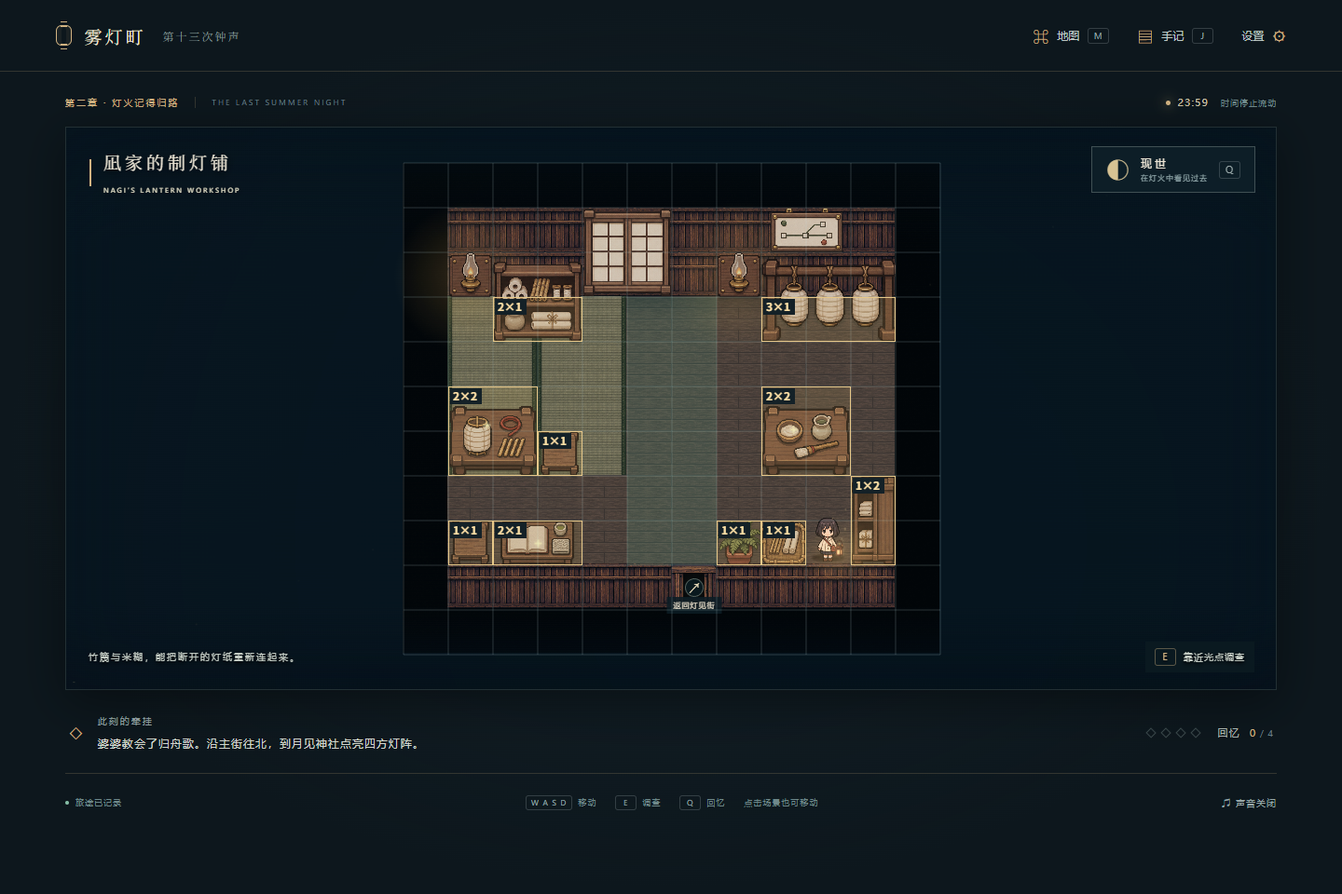
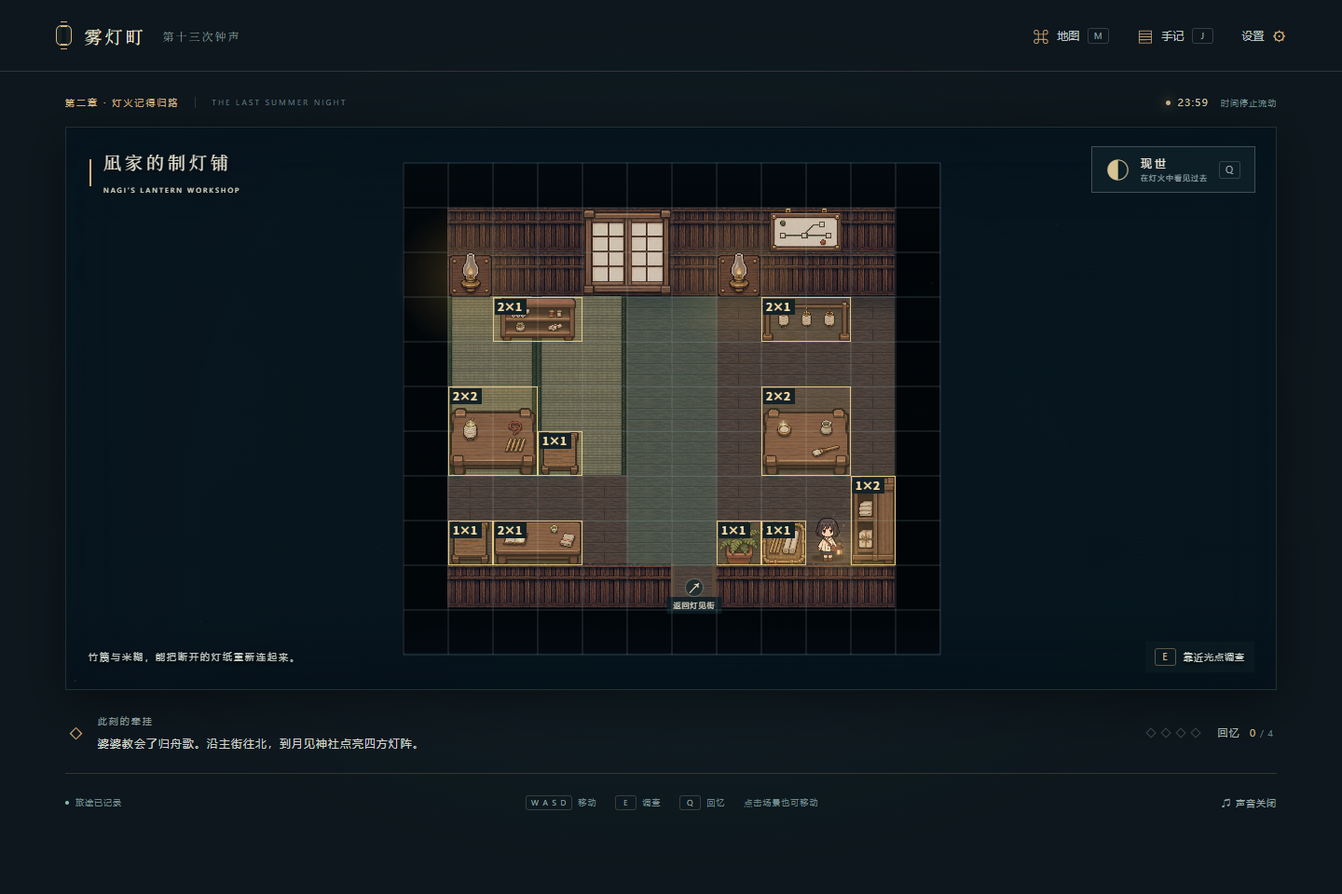
Balance furniture proportions and add mobile lantern controls

diff --git a/game.js b/game.js
@@ -15,6 +15,25 @@
   const keys = new Set();
   const settings = Object.assign({ sound: false, instantText: false, particles: true }, read(KEYS.settings) || {});
   const motionPreference=window.matchMedia('(prefers-reduced-motion: reduce)');
+  const touchLayout=window.matchMedia('(max-width: 700px), (pointer: coarse)');
+  function controlText(text){
+    if(!touchLayout.matches)return text;
+    return text.replace(/按 Q[ \t]*/g,'轻触「引灯」').replace(/按 M[ \t]*/g,'轻触顶部「地图」')
+      .replace('使用 WASD 或方向键移动，靠近光点后按 E 调查。','使用屏幕方向键移动，靠近光点后轻触「调查」。')
+      .replace('任意时刻也可按 E 显示全文','也可轻触对话中的「显示全文」');
+  }
+  function syncPhaseControls(){
+    if(!state)return;
+    const echo=state.phase==='echo',lit=!!state.flags.lantern;
+    for(const id of ['phase-button','touch-phase']){$(id).disabled=!lit;$(id).setAttribute('aria-pressed',String(echo));}
+    $('phase-name').textContent=echo?'回忆':'现世';
+    $('phase-sub').textContent=lit?(touchLayout.matches?(echo?'轻触返回现世':'轻触照见回忆'):(echo?'旧日之事正在浮现':'在灯火中看见过去')):state.flags.lampFound?'引灯未点亮':'先寻找引灯';
+    $('phase-button').title=touchLayout.matches?'轻触切换现世 / 回忆':'切换现世 / 回忆（Q）';
+    $('touch-phase-label').textContent=lit?(echo?'返回现世':'照见回忆'):'未点亮';
+    $('touch-phase').setAttribute('aria-label',lit?(echo?'收起引灯，返回现世':'使用引灯，照见回忆'):'引灯尚未点亮');
+    $('world').setAttribute('aria-label',touchLayout.matches?'游戏场景。使用屏幕方向键移动，轻触调查；点亮后轻触引灯切换回忆，也可以轻触场景。':'游戏场景。使用方向键或 WASD 移动，E 调查，Q 切换回忆，也可以点击场景。');
+  }
+  touchLayout.addEventListener('change',()=>{syncPhaseControls();if(state&&screen==='play'){renderHUD();updateNearest();}});
   let reducedMotion=motionPreference.matches;
   motionPreference.addEventListener('change',event=>{reducedMotion=event.matches;});
   if (reducedMotion) settings.instantText = true;
@@ -41,7 +60,7 @@
   function toast(message) {
     clearTimeout(toastTimer);
     $('toast-region').replaceChildren();
-    const el = document.createElement('div'); el.className = 'toast'; el.textContent = message;
+    const el = document.createElement('div'); el.className = 'toast'; el.textContent = controlText(message);
     $('toast-region').appendChild(el);
     toastTimer = setTimeout(() => $('toast-region').replaceChildren(), 3900);
   }
@@ -81,9 +100,7 @@
     $('world').classList.toggle('echo', echo);
     $('world-background').style.backgroundPosition = `${zone.atlas[0] * 100}% ${zone.atlas[1] * 50}%`;
     $('zone-name').textContent = zone.name; $('zone-reading').textContent = zone.reading; $('zone-sub').textContent = zone.sub;
-    $('phase-button').disabled = !state.flags.lantern; $('phase-name').textContent = echo ? '回忆' : '现世';
-    $('phase-sub').textContent = state.flags.lantern ? (echo ? '旧日之事正在浮现' : '在灯火中看见过去') : state.flags.lampFound?'引灯未点亮':'先寻找引灯';
-    $('phase-button').setAttribute('aria-pressed', String(echo));
+    syncPhaseControls();
     $('player').classList.toggle('lit', !!state.flags.lantern);
     const container = $('objects'); container.replaceChildren();
     visibleObjects().forEach(obj => {
@@ -129,7 +146,7 @@
     if (target) showClickTarget(target);
   }
   function renderHUD() {
-    const objective = C.objective(state); $('chapter-label').textContent = objective[0]; $('objective-text').textContent = objective[1];
+    const objective = C.objective(state); $('chapter-label').textContent = objective[0]; $('objective-text').textContent = controlText(objective[1]);
     $('memory-count').textContent = state.memories.length;
     $('memory-dots').innerHTML = C.MEMORIES.map(id => `<i class="${state.memories.includes(id) ? 'filled' : ''}"></i>`).join('');
     document.querySelector('.clock-label').innerHTML = state.solved.includes('tower') ? '<i></i> 00:00 <small>等待最后一声钟响</small>' : '<i></i> 23:59 <small>时间停止流动</small>';
@@ -140,7 +157,8 @@
     const distance = obj => Math.abs(obj.x - state.player.x) + Math.abs(obj.y - state.player.y);
     nearest = objects.filter(obj => distance(obj) <= 1).sort((a, b) => distance(a) - distance(b))[0] || null;
     objects.forEach(obj => $(`object-${obj.id}`)?.classList.toggle('near', obj === nearest));
-    $('nearby-hint').innerHTML = nearest ? `<kbd>E</kbd> ${nearest.character !== undefined ? '交谈 · ' : ''}${nearest.name}` : '<kbd>E</kbd> 靠近光点调查';
+    const key=touchLayout.matches?'调查':'E';
+    $('nearby-hint').innerHTML = nearest ? `<kbd>${key}</kbd> ${nearest.character !== undefined ? '交谈 · ' : ''}${nearest.name}` : `<kbd>${key}</kbd> 靠近光点调查`;
   }
   function approach(obj) {
     if (screen !== 'play' || modalKind || !$('dialogue').hidden || transitioning) return;
@@ -245,7 +263,7 @@
     $('speaker-name').textContent = who?.name || '雾中的旧事'; $('speaker-detail').textContent = line.detail || (who ? '灯见祭 · 前夜' : '');
     const portrait = $('dialogue-portrait'); portrait.classList.toggle('narrator', !who);
     if (who) portrait.style.backgroundPosition = `${(who.portrait % 2) * 100}% ${Math.floor(who.portrait / 2) * 100}%`;
-    currentText = line.text || '你想怎么回答？';
+    currentText = controlText(line.text || '你想怎么回答？');
     $('dialogue-text').textContent = '';
     if (settings.instantText) finishTyping();
     else {
@@ -288,7 +306,7 @@
     keys.clear(); clearTarget(); if (state) updatePlayer(false);
     if (!modalKind) modalReturnFocus = document.activeElement;
     modalKind = kind; $('modal-title').textContent = title; $('modal-eyebrow').textContent = eyebrow;
-    $('modal-card').classList.toggle('wide', wide); $('modal-body').innerHTML = html; $('modal').hidden = false;
+    $('modal-card').classList.toggle('wide', wide); $('modal-body').innerHTML = controlText(html); $('modal').hidden = false;
     $('modal-close').focus({ preventScroll: true });
   }
   function closeModal(restoreFocus = true) {
@@ -322,7 +340,7 @@
       html = `<div class="gears">${p.values.map((v, i) => `<button class="gear-button" data-gear="${i}" aria-label="转动${['上', '中', '下'][i]}轮，目前${v === 0 ? 12 : v * 3}点"><span class="gear-clock"><small class="clock-twelve">12</small><i class="gear-hand" style="transform:rotate(${v * 90}deg)"></i></span><span>${['上', '中', '下'][i]}轮 · ${v === 0 ? 12 : v * 3} 点</span><small>同时带动${['中', '下', '上'][i]}轮 ↻</small></button>`).join('')}</div>`;
     }
     const clueKey = { station: 'date', shrine: 'lanternOrder', archive: 'chronology', tower: 'clockMarks' }[id];
-    const clueHtml = state.clues.includes(clueKey) ? D.clues[clueKey].text : '线索尚未记下。暂时离开机关，按 Q 查看回忆，调查附近的文字。你的旅程不会因此中断。';
+    const clueHtml = state.clues.includes(clueKey) ? D.clues[clueKey].text : controlText('线索尚未记下。暂时离开机关，按 Q 查看回忆，调查附近的文字。你的旅程不会因此中断。');
     $('modal-body').innerHTML = `<p class="puzzle-caption">${caption}</p>${html}<p id="puzzle-status" class="puzzle-status" role="status">${p.status || '机关静静地等待着。'}</p><div class="puzzle-clue"><span class="clue-label">手记中的线索</span>${clueHtml}</div>${p.hints ? `<div class="hint-box">${D.hints[id][p.hints - 1]}</div>` : ''}<div class="modal-actions"><div><button id="puzzle-reset" class="subtle-button">重置</button><span style="color:#557173;margin:0 12px">/</span><button id="puzzle-hint" class="subtle-button">${p.hints === 3 ? '已显示完整提示' : '一点提示 ' + (p.hints + 1) + ' / 3'}</button></div><button id="puzzle-check" class="button primary">${id === 'tower' ? '启动钟芯' : '确认'} ⟶</button></div>`;
     $('puzzle-reset').onclick = () => { p.values = id === 'station' ? [0, 0, 0, 0] : id === 'archive' ? ['gate', 'bell', 'letter', 'lantern'] : id === 'tower' ? [0, 0, 0] : []; p.status = '机关已回到最初。'; p.selected = null; renderPuzzle('#puzzle-reset'); };
     $('puzzle-hint').onclick = () => { p.hints = Math.min(3, p.hints + 1); renderPuzzle('#puzzle-hint'); };
@@ -387,7 +405,7 @@
   }
   function openSettings() {
     const hasManual = !!getSave(KEYS.manual);
-    const html = `<div class="body-copy"><p>这是一段可以慢慢走完的旅程。所有谜题都提供三层提示，试错不会失去物品。</p></div><div class="setting-row"><div><b>环境音乐</b><small>原创合成钟声与缓慢的钢琴音色。</small></div><button id="setting-sound">${S.enabled ? '已开启' : '已关闭'}</button></div><div class="setting-row"><div><b>对话直接显示</b><small>关闭逐字浮现；任意时刻也可按 E 显示全文。</small></div><button id="setting-text">${settings.instantText ? '已开启' : '已关闭'}</button></div><div class="setting-row"><div><b>漂浮光点</b><small>减少场景中的环境动画。</small></div><button id="setting-particles">${settings.particles ? '已开启' : '已关闭'}</button></div><div class="help-grid"><div><kbd>WASD / ↑↓←→</kbd> 移动</div><div><kbd>E / Enter</kbd> 调查、继续</div><div><kbd>Q</kbd> 现世 / 回忆</div><div><kbd>J</kbd> 澪的手记</div><div><kbd>M</kbd> 旧地图</div><div><kbd>Esc</kbd> 关闭窗口</div></div><div class="body-copy"><p>点击地面可移动，点击人物或光点会自动走近并调查。手机可使用屏幕方向键。回忆中闪动的细小光点能找回故事片段。</p><p>进度会自动保存在当前浏览器。请用同一个地址和浏览器继续；清理网站数据会删除存档。</p></div>${state && screen === 'play' ? `<div class="modal-actions"><button class="subtle-button" id="load-manual" ${hasManual ? '' : 'disabled'}>读取手动存档</button><button id="save-manual" class="button primary">手动存档 ⟶</button></div>` : ''}`;
+    const html = `<div class="body-copy"><p>这是一段可以慢慢走完的旅程。所有谜题都提供三层提示，试错不会失去物品。</p></div><div class="setting-row"><div><b>环境音乐</b><small>原创合成钟声与缓慢的钢琴音色。</small></div><button id="setting-sound">${S.enabled ? '已开启' : '已关闭'}</button></div><div class="setting-row"><div><b>对话直接显示</b><small>关闭逐字浮现；任意时刻也可按 E 显示全文。</small></div><button id="setting-text">${settings.instantText ? '已开启' : '已关闭'}</button></div><div class="setting-row"><div><b>漂浮光点</b><small>减少场景中的环境动画。</small></div><button id="setting-particles">${settings.particles ? '已开启' : '已关闭'}</button></div>${touchLayout.matches ? '<div class="help-grid"><div><kbd>方向按钮</kbd> 移动</div><div><kbd>调查</kbd> 靠近后交互</div><div><kbd>引灯</kbd> 现世 / 回忆</div><div><kbd>手记</kbd> 查看线索</div><div><kbd>地图</kbd> 前往旧地</div><div><kbd>×</kbd> 关闭窗口</div></div>' : '<div class="help-grid"><div><kbd>WASD / ↑↓←→</kbd> 移动</div><div><kbd>E / Enter</kbd> 调查、继续</div><div><kbd>Q</kbd> 现世 / 回忆</div><div><kbd>J</kbd> 澪的手记</div><div><kbd>M</kbd> 旧地图</div><div><kbd>Esc</kbd> 关闭窗口</div></div>'}<div class="body-copy"><p>点击地面可移动，点击人物或光点会自动走近并调查。手机可使用屏幕方向键。回忆中闪动的细小光点能找回故事片段。</p><p>进度会自动保存在当前浏览器。请用同一个地址和浏览器继续；清理网站数据会删除存档。</p></div>${state && screen === 'play' ? `<div class="modal-actions"><button class="subtle-button" id="load-manual" ${hasManual ? '' : 'disabled'}>读取手动存档</button><button id="save-manual" class="button primary">手动存档 ⟶</button></div>` : ''}`;
     openModal('旅途设置', 'MAKE YOURSELF AT HOME', 'settings', html);
     $('setting-sound').onclick = async () => { await toggleSound(); if (modalKind === 'settings') $('setting-sound').textContent = S.enabled ? '已开启' : '已关闭'; };
     $('setting-text').onclick = () => { settings.instantText = !settings.instantText; write(KEYS.settings, settings); $('setting-text').textContent = settings.instantText ? '已开启' : '已关闭'; };
@@ -458,6 +476,7 @@
   $('modal-close').onclick = () => closeModal(); $('modal').onclick = e => { if (e.target === $('modal')) closeModal(); };
   $('ending-rewind').onclick = rewind; $('ending-home').onclick = goHome;
   $('touch-interact').onclick = () => { updateNearest(); interact(nearest); };
+  $('touch-phase').onclick = togglePhase;
   $('world').addEventListener('pointerdown', e => {
     if (e.target.closest('button') || modalKind || !$('dialogue').hidden || transitioning) return;
     const rect = $('world').getBoundingClientRect();

diff --git a/interior-art.js b/interior-art.js
@@ -1,2 +1,2 @@
 /* Generated by scripts/import-interior-art.cjs. Rectangles include transparent padding. */
-(function(root,factory){if(typeof module==='object'&&module.exports)module.exports=factory();else root.KiriInteriorArt=factory();})(globalThis,()=>({"version":1,"sizes":[32,48],"cell":3,"columns":6,"sprites":{"lampCabinet":[{"col":0,"row":0,"w":2,"h":2},{"col":1,"row":0,"w":2,"h":2}],"dutyDesk":[{"col":2,"row":0,"w":2,"h":1}],"parcelShelf":[{"col":3,"row":0,"w":2,"h":1},{"col":4,"row":0,"w":2,"h":1}],"maintenanceBench":[{"col":5,"row":0,"w":2,"h":1}],"serviceCounter":[{"col":0,"row":1,"w":3,"h":1}],"waitingBench":[{"col":1,"row":1,"w":3,"h":1}],"sideBench":[{"col":2,"row":1,"w":1,"h":3}],"ticketCubby":[{"col":3,"row":1,"w":1,"h":2}],"luggage":[{"col":4,"row":1,"w":1,"h":1}],"wallClock":[{"col":5,"row":1,"w":1,"h":1}],"wallLamp":[{"col":0,"row":2,"w":1,"h":1}],"repairTable":[{"col":1,"row":2,"w":2,"h":2},{"col":2,"row":2,"w":2,"h":2}],"pasteTable":[{"col":3,"row":2,"w":2,"h":2}],"notesTable":[{"col":4,"row":2,"w":2,"h":1}],"paperShelf":[{"col":5,"row":2,"w":2,"h":2}],"dryingRack":[{"col":0,"row":3,"w":3,"h":2}],"stool":[{"col":1,"row":3,"w":1,"h":1}],"stockBasket":[{"col":2,"row":3,"w":1,"h":1}],"sideShelf":[{"col":3,"row":3,"w":1,"h":2}],"wardrobe":[{"col":4,"row":3,"w":2,"h":2}],"lowCupboard":[{"col":5,"row":3,"w":2,"h":1}],"screen":[{"col":0,"row":4,"w":2,"h":2}],"sideScreen":[{"col":1,"row":4,"w":1,"h":2}],"fern":[{"col":2,"row":4,"w":1,"h":1}],"camellia":[{"col":3,"row":4,"w":1,"h":1}],"routeBoard":[{"col":4,"row":4,"w":2,"h":1}],"landscape":[{"col":5,"row":4,"w":1,"h":1}],"shojiWindow":[{"col":0,"row":5,"w":2,"h":2}],"narrowWindow":[{"col":1,"row":5,"w":1,"h":2}],"umbrellaStand":[{"col":2,"row":5,"w":1,"h":2}],"coatRack":[{"col":3,"row":5,"w":2,"h":1}]},"rows":6}));
+(function(root,factory){if(typeof module==='object'&&module.exports)module.exports=factory();else root.KiriInteriorArt=factory();})(globalThis,()=>({"version":1,"sizes":[32,48],"cell":3,"columns":6,"sprites":{"lampCabinet":[{"col":0,"row":0,"w":2,"h":2},{"col":1,"row":0,"w":2,"h":2}],"dutyDesk":[{"col":2,"row":0,"w":2,"h":1}],"parcelShelf":[{"col":3,"row":0,"w":2,"h":1},{"col":4,"row":0,"w":2,"h":1}],"maintenanceBench":[{"col":5,"row":0,"w":2,"h":1}],"serviceCounter":[{"col":0,"row":1,"w":3,"h":1}],"waitingBench":[{"col":1,"row":1,"w":3,"h":1}],"sideBench":[{"col":2,"row":1,"w":1,"h":3}],"ticketCubby":[{"col":3,"row":1,"w":1,"h":2}],"luggage":[{"col":4,"row":1,"w":1,"h":1}],"wallClock":[{"col":5,"row":1,"w":1,"h":1}],"wallLamp":[{"col":0,"row":2,"w":1,"h":1}],"repairTable":[{"col":1,"row":2,"w":2,"h":2},{"col":2,"row":2,"w":2,"h":2}],"pasteTable":[{"col":3,"row":2,"w":2,"h":2}],"notesTable":[{"col":4,"row":2,"w":2,"h":1}],"paperShelf":[{"col":5,"row":2,"w":2,"h":1}],"dryingRack":[{"col":0,"row":3,"w":2,"h":1}],"stool":[{"col":1,"row":3,"w":1,"h":1}],"stockBasket":[{"col":2,"row":3,"w":1,"h":1}],"sideShelf":[{"col":3,"row":3,"w":1,"h":2}],"wardrobe":[{"col":4,"row":3,"w":2,"h":2}],"lowCupboard":[{"col":5,"row":3,"w":2,"h":1}],"screen":[{"col":0,"row":4,"w":2,"h":2}],"sideScreen":[{"col":1,"row":4,"w":1,"h":2}],"fern":[{"col":2,"row":4,"w":1,"h":1}],"camellia":[{"col":3,"row":4,"w":1,"h":1}],"routeBoard":[{"col":4,"row":4,"w":2,"h":1}],"landscape":[{"col":5,"row":4,"w":1,"h":1}],"shojiWindow":[{"col":0,"row":5,"w":2,"h":2}],"narrowWindow":[{"col":1,"row":5,"w":1,"h":2}],"umbrellaStand":[{"col":2,"row":5,"w":1,"h":2}],"coatRack":[{"col":3,"row":5,"w":2,"h":1}]},"rows":6}));

diff --git a/furniture.js b/furniture.js
@@ -3,21 +3,21 @@
   'use strict';
   const catalog={
     lampCabinet:{atlas:'gridInterior',sprite:0,w:2,d:1,h:2,completedFlag:'lampFound',completedSprite:1,focus:[.72,.22]},
-    dutyDesk:{atlas:'prefab',sprite:2,w:2,d:1,h:1,focus:[.5,.3]},
-    parcelShelf:{atlas:'prefab',sprite:9,w:2,d:1,h:1,completedFlag:'parcelTaken',completedSprite:10,focus:[.5,.4]},
-    maintenanceBench:{atlas:'prefab',sprite:4,w:2,d:1,h:1,focus:[.5,.35]},
-    serviceCounter:{atlas:'prefab',sprite:3,w:3,d:1,h:1},
+    dutyDesk:{atlas:'balanced',sprite:4,w:2,d:1,h:1,focus:[.3,.35]},
+    parcelShelf:{atlas:'balancedCounter',sprite:1,w:2,d:1,h:1,completedFlag:'parcelTaken',completedSprite:2,focus:[.5,.4]},
+    maintenanceBench:{atlas:'balanced',sprite:5,w:2,d:1,h:1,focus:[.24,.4]},
+    serviceCounter:{atlas:'balancedCounter',sprite:0,w:3,d:1,h:1},
     waitingBench:{atlas:'prefab',sprite:0,w:3,d:1,h:1},
     sideBench:{atlas:'prefab',sprite:1,w:1,d:3,h:3,facing:'west'},
     ticketCubby:{atlas:'gridInterior',sprite:2,w:1,d:1,h:2},
     luggage:{atlas:'gridInterior',sprite:3,w:1,d:1,h:1},
     wallClock:{atlas:'gridInterior',sprite:4,w:1,d:0,h:1,mount:'back-wall'},
     wallLamp:{atlas:'gridInterior',sprite:5,w:1,d:0,h:1,mount:'back-wall'},
-    repairTable:{atlas:'worktable',sprite:0,w:2,d:2,h:2,completedFlag:'helpedNagi',completedSprite:1,focus:[.43,.43]},
-    pasteTable:{atlas:'worktable',sprite:2,w:2,d:2,h:2,focus:[.35,.48]},
-    notesTable:{atlas:'prefab',sprite:8,w:2,d:1,h:1,focus:[.5,.5]},
-    paperShelf:{atlas:'gridInterior',sprite:6,w:2,d:1,h:2},
-    dryingRack:{atlas:'gridInterior',sprite:7,w:3,d:1,h:2},
+    repairTable:{atlas:'balanced',sprite:0,w:2,d:2,h:2,completedFlag:'helpedNagi',completedSprite:1,focus:[.25,.42]},
+    pasteTable:{atlas:'balanced',sprite:2,w:2,d:2,h:2,focus:[.24,.42]},
+    notesTable:{atlas:'balanced',sprite:3,w:2,d:1,h:1,focus:[.3,.4]},
+    paperShelf:{atlas:'balanced',sprite:7,w:2,d:1,h:1},
+    dryingRack:{atlas:'balanced',sprite:6,w:2,d:1,h:1},
     stool:{atlas:'prefab',sprite:11,w:1,d:1,h:1},
     stockBasket:{atlas:'gridInterior',sprite:8,w:1,d:1,h:1},
     sideShelf:{atlas:'gridInterior',sprite:9,w:1,d:2,h:2,facing:'west'},

diff --git a/index.html b/index.html
@@ -57,7 +57,7 @@
       <div class="journey-bar"><div class="objective"><span class="objective-symbol" aria-hidden="true">◇</span><div><span class="micro-label">此刻的牵挂</span><p id="objective-text"></p></div></div><button id="memory-button" class="memory-counter" aria-label="查看回忆手记"><span class="memory-dots" id="memory-dots"></span><span>回忆 <b id="memory-count">0</b><small> / 4</small></span></button></div>
       <footer class="game-footer"><span id="save-status"><i></i> 旅途已记录</span><div class="keyboard-help"><span><kbd>W A S D</kbd> 移动</span><span><kbd>E</kbd> 调查</span><span><kbd>Q</kbd> 回忆</span><span>点击场景也可移动</span></div><button id="sound-button" class="text-button" aria-label="开启环境音乐" aria-pressed="false">♫ <span>声音关闭</span></button></footer>
     </div>
-    <div class="touch-controls" id="touch-controls"><div class="dpad" aria-label="方向控制"><button data-move="up" aria-label="向上移动">↑</button><button data-move="left" aria-label="向左移动">←</button><button data-move="down" aria-label="向下移动">↓</button><button data-move="right" aria-label="向右移动">→</button></div><button id="touch-interact" class="touch-interact">调查 <span>E</span></button></div>
+    <div class="touch-controls" id="touch-controls"><div class="dpad" aria-label="方向控制"><button data-move="up" aria-label="向上移动">↑</button><button data-move="left" aria-label="向左移动">←</button><button data-move="down" aria-label="向下移动">↓</button><button data-move="right" aria-label="向右移动">→</button></div><div class="touch-actions"><button id="touch-phase" class="touch-interact touch-phase" aria-label="引灯尚未点亮" aria-pressed="false" disabled>引灯 <span id="touch-phase-label">未点亮</span></button><button id="touch-interact" class="touch-interact">调查 <span>靠近光点</span></button></div></div>
   </main>
 
   <section id="dialogue" class="dialogue" role="dialog" aria-modal="true" aria-label="剧情对话" hidden>

diff --git a/world.js b/world.js
@@ -67,7 +67,10 @@
     }
     timberCache.set(size,unit);return unit;
   }
-  function groundMaterial(map,index){return ['station-office','town-workshop'].includes(map.id)&&map.materials[index]==='wood'?'timber':map.materials[index];}
+  function groundMaterial(map,index){
+    if(['station-office','town-workshop'].includes(map.id)){if(map.tiles[index]===31)return 'interior-exit';if(map.materials[index]==='wood')return 'timber';}
+    return map.materials[index];
+  }
   function drawTatami(pen,map,size,originX=0,originY=0){
     if(!map.tatami.length||!tatamiImage.complete||!tatamiImage.naturalWidth)return;
     if(!tatamiBounds){
@@ -80,6 +83,14 @@
     const b=tatamiBounds;map.tatami.forEach(mat=>pen.drawImage(tatamiImage,b.x,b.y,b.w,b.h,mat.x*size-originX,mat.y*size-originY,mat.width*size,mat.height*size));
   }
   function texture(pen, tile, x, y, size, material, originX=0,originY=0) {
+    if(material==='interior-exit'){
+      // Continue the room floor through a cutaway doorway, without the old black-backed tile.
+      texture(pen,4,x,y,size,'timber',originX,originY);
+      const post=Math.max(1,Math.round(size/12)),sill=Math.max(2,Math.round(size/12));
+      pen.fillStyle='#73563b';pen.fillRect(x,y,post,size);pen.fillRect(x+size-post,y,post,size);
+      pen.fillStyle='#a28660';pen.fillRect(x+post,y+size-sill,size-post*2,sill);
+      return;
+    }
     if((material==='stone'&&stoneGrain.complete&&stoneGrain.naturalWidth)||(material==='timber'&&woodGrain.complete&&woodGrain.naturalWidth)) {
       let patterns=contextPatterns.get(pen);if(!patterns) {patterns=new Map();contextPatterns.set(pen,patterns);}
       const key=material+':'+size;

diff --git a/style.css b/style.css
@@ -93,3 +93,20 @@
 .world.echo .object.memory .object-marker{color:#fff0c9}
 .chapter-splash{z-index:11000}.transition{z-index:12000}
 @media(prefers-reduced-motion:reduce){#tile-map,.building-sprite,.scenery-art{transition:none}.player .player-lantern{transform:translate(-50%,-55%)}}
+/* Mobile actions name the gesture instead of keyboard shortcuts. */
+@media(max-width:700px),(pointer:coarse){
+  .touch-controls{display:flex;justify-content:space-between;align-items:center;padding:11px 18px 25px;gap:12px}
+  .keyboard-help,.phase-button kbd{display:none}
+  .dpad{display:grid;grid-template-columns:repeat(3,36px);grid-template-rows:36px 36px;gap:4px}
+  .dpad button{border:1px solid #c2b38244;background:#20343c77;color:#c0c7b8;touch-action:none;user-select:none}
+  .dpad button[data-move=up]{grid-column:2;grid-row:1}
+  .dpad button[data-move=left]{grid-column:1;grid-row:2}
+  .dpad button[data-move=down]{grid-column:2;grid-row:2}
+  .dpad button[data-move=right]{grid-column:3;grid-row:2}
+  .touch-actions{display:flex;gap:10px;align-items:center}
+  .touch-actions .touch-interact{width:62px;height:62px;flex-shrink:0;touch-action:manipulation;border:1px solid #d2b38277;border-radius:50%;color:#dcc395;display:flex;flex-direction:column;align-items:center;justify-content:center;font-size:11px;letter-spacing:2px;background:#c6a66d11}
+  .touch-actions .touch-interact span{font-size:8px;letter-spacing:0;color:#7f9e9d;margin-top:5px}
+  .touch-actions .touch-phase{border-color:#d2b382aa;background:#c6a66d22}
+  .touch-phase[aria-pressed="true"]{background:#bdc7ad26;border-color:#cad5b7}
+  .touch-phase:disabled{opacity:.42}
+}

diff --git a/docs/FURNITURE-SCALE.md b/docs/FURNITURE-SCALE.md
@@ -1,0 +1,66 @@
+# 家具占格、人物尺度与台面物件
+
+2026-11-16。本轮把“碰撞占格”“家具本身体量”“书本和器具的相对大小”分开设计，并在生成素材前同时确定。继续使用固定像素图集，游戏中不临时缩放素材。
+
+## 参照与取舍
+
+- 原生电脑地块为 48 像素，人物站立画面约 40 像素高、身体约 18 像素宽。采用经典 RPG 的轻度夸张和斜俯视，按最终游戏画面判断比例。
+- 修灯台与调糊台保留 2 × 2 地面占格，桌面轮廓有透视压缩和短桌腿。普通小灯约半个人高，碗壶、刷子和线圈按手持物大小绘制，空台面成为主体。
+- 笔记桌与站务桌保持 2 × 1 格，打开的书约占桌宽四分之一，杯子更小；不再用放大的书覆盖大半张桌子。
+- 晾灯架改为约一人高的 2 × 1 低架，三盏小灯均低于人物身体尺寸；纸料柜也改为 2 × 1 低柜。碰撞按新的完整矩形重新导出，不留下旧架子的隐形阻挡。
+- 站房 3 × 1 直柜台上使用小铃和短票据，寄物台的包裹恢复为可携带的普通包裹；有物 / 空台状态保持桌体位置和尺寸一致。
+
+## 素材
+
+全部由内置 image_gen 生成，保留未经修改的原始 PNG 和透明通道：
+
+- `assets/grid-furniture-balanced.png`：4 列 × 2 行。破损修灯台、修好修灯台、调糊台、笔记桌、站务桌、整灯台、低晾灯架、低纸料柜。
+- `assets/grid-counter-props-balanced.png`：直柜台、包裹台、空包裹台。此图实际输出是不同宽度的源区域，导入脚本为它们显式记录裁取矩形，不按等宽格子硬切。两个包裹台源区域对齐到同一桌体基线。
+- `assets/interior-native-32.png` 与 `assets/interior-native-48.png`：两套最终运行图集已重新导入，仍为 34 帧。只在导入阶段整理原图，运行时按原像素读取。
+- 新尺寸和朝向定义位于 `furniture.js`。
+
+## 门口黑底
+
+两处房间的出口仍使用原有通行点和切换规则。显示时把旧的黑底开门格替换为连续木地板、两侧门框和浅色门槛，去除门口的黑色条块；缩略地图也使用同一显示方法。浏览器抽查出口中心的多个像素，确认通道是木地板而非黑底。
+
+## 验证
+
+36 项规则检查通过，包含全地板连通、完整家具碰撞和交互点可达。开场浏览器流程复查取灯、点灯、包裹、修灯与室内进出。固定像素检查继续覆盖电脑 / 手机以及真实 drawImage 源目标尺寸一致。
+
+最新画面：`preview-station-office.png`、`preview-lantern-workshop.png`、`preview-workshop-mobile.png`；占地示意为对应 `-grid.png` 文件。手机“引灯”按钮与触屏提示一并保留。
+
+## 家具比例生成提示词
+
+```text
+Use case: stylized-concept.
+Asset type: production transparent PIXEL-ART furniture atlas, EXACTLY4 columns by2 rows, EIGHT equal square cells, canvas aspect2:1.
+Image1 is wood/palette/camera reference ONLY. Image2 is the game's protagonist SCALE reference ONLY, do NOT include a person in output.
+Primary request: redraw furniture with BELIEVABLE HUMAN-SCALE SMALL PROPS. Furniture footprint and prop size are different. Table bodies remain normal generous size; small books, cups, bowls, oil cans and handheld lanterns are all MUCH SMALLER than in image1. Do not shrink the furniture body to keep giant props. Leave at least70% of each tabletop visibly EMPTY. Calm useful furniture, not enlarged still-life displays.
+Scale specification for import: one ground tile displays at48px. The protagonist body is about18px wide and40px tall. A2-tile table is96px wide. An open BOOK on it should be16–20px wide (about18–20% table width), paper hand lantern12px wide by18px tall, tea CUP5px wide by5px tall, small BOWL11px diameter, JUG9px wide by13px tall, short BRUSH18px long. These are SIZE PROPORTIONS to express in original art, NOT text to print. Keep circular/rounded objects natural. No giant head-sized books or torso-sized teacups.
+Style: classic Japanese exploration RPG three-quarter TOP-DOWN ORTHOGRAPHIC tile art, crisp chunky16-bit pixel clusters, muted walnut wood, aged ivory, tiny brass/red accents. Axis-aligned edges, shallow visible top surfaces, modest short front edges/legs. Not isometric, no diagonal furniture. No heavy corner posts, no ornate dungeon-table architecture.
+Row1:
+0: normal low repair table, floor2x2, whole visible silhouette about4:3 width:height. Tabletop gently foreshortened, short front fascia and short legs. ONE TINY damaged paper hand lantern on upper left, TINY red thread coil upper right, FOUR SHORT bamboo ribs together near right edge. Lantern width12.5% of table width, height18.75% table width. Most bare wooden tabletop remains visible.
+1: EXACT SAME TABLE and props, same size/position/baseline, lantern repaired with intact ivory paper. Small handheld lantern, not big festival lantern. Quest pair must match perfectly.
+2: same low2x2 square-footprint table, visible4:3. ONE SMALL paste bowl near upper left (diameter11.5%table width), a SMALL short ceramic jug near upper right (width9.4%table width), short brush on lower right (length18.75%table width). Large empty middle of tabletop. No giant bowl or tall jug.
+3: compact2x1 notes/tea desk, visible2:1. TINY open notebook toward LEFT CENTER (width18% table width), one VERY SMALL cup at back-right (width5% table width), modest folded cloth at far right (width10%). Tabletop mostly EMPTY. Book is handheld-sized and much smaller than person, not a giant book covering table.
+Row2:
+4: station duty desk2x1, visible2:1, same wood and perspective as3. Small open ledger toward upper left (width20%table width), short pen alongside (length10%table width), narrow drawer fascia, calm mostly empty surface. This is a normal human-use ledger.
+5: maintenance bench2x1, visible2:1, a SMALL brass oil can at left (width9%,height14%of table width), 3short spare wicks near right, a small shallow match tray (width15%) and folded cloth (width10%). More than70% bare top.
+6: LOW lantern drying rack, ground3x1, VISIBLE3x1 wide short silhouette, total screen height48px versus40px person. Two modest posts and straight beam, THREE SMALL hanging PAPER HAND LANTERNS evenly spaced and lots of open space. EACH lantern about12px wide by18px tall in the144px-wide rack: only8.3%of rack width by12.5%of rack width. Tiny short hanging loops. Posts about person height, lanterns smaller than human head+torso, no gigantic lanterns. No beam thickness above5%of width.
+7: LOW broad paper supply cupboard, ground2x1, VISIBLE2x1 wide short silhouette. Two shallow shelves with SMALL rolled paper, short thread spools and a small jar. Roll end diameter6%of width, jarheight12%of width. Do not magnify stock to fill shelves. Normal small drawer joinery.
+Constraints: genuine transparent alpha, no floor/backdrop, no external shadows, no words, numbers, labels, people, grid or cell borders. Center each complete sprite in its own equal square atlas cell. Do not make narrow sprites square by stretching. Exact4x2 arrangement. Low-noise clean pixels, restrained small-object details; readable silhouette and coherent relative scale take priority over showing every prop detail.
+```
+
+## 柜台小物生成提示词
+
+```text
+Use case: stylized-concept.
+Asset type: production transparent16-bit pixel-art atlas, EXACT THREE equal square cells in ONE row, total canvas3:1.
+Image is REFERENCE for restrained walnut palette and quiet empty tabletop ONLY. Make new normal-sized railway furniture bodies with SMALL HUMAN-SCALE props.
+Scale reference: a person in game is40px tall and18px wide. One ground tile48px. Props are much smaller than a person, NOT trophy-sized.
+Cell0: long STRAIGHT station ticket counter, ground3x1, VISIBLE3:1 rectangle. Whole sprite3times wider than tall, narrow front fascia/drawers. Generous mostly EMPTY tabletop. At left is a TINY brass service bell, about7px wide and7px tall compared with144px-wide counter (only5%counter width). At right a SMALL stack of tickets14px wide and5px tall (10%counter width). At least80%of top EMPTY. Do not magnify the bell or tickets to display detail. Axis-aligned edges, orthographic three-quarter RPG view, very shallow top with small front strip. No L wing, no tallfront.
+Cell1: low wooden parcel counter, ground2x1, VISIBLE2:1 rectangle. One modest cream paper parcel tied with string near center, about34px wide by15px high compared with96px-wide counter (35%counter width), and large bare wood margins. Same palette/perspective. Modest front panel and short legs.
+Cell2: EXACT SAME parcel counter as1, identical base geometry, size, pixel position and baseline, but parcel removed and top EMPTY. A matching quest pair.
+Transparent alpha around each complete sprite, equal square cells, leave space above and below wide objects rather than stretching to fill cell. Crisp chunky pixel clusters, clean restrained wood grain, muted walnut/ivory/brass. No text, people, floor, shadows outside silhouette, grid, labels, borders or extra items. These are true rectangular grid prefabs with small normal-use objects.
+```
+

diff --git a/docs/QA.md b/docs/QA.md
@@ -97,3 +97,17 @@
 ## 固定像素图集与工作台透视复验
 
 上述三套源图另补充工作台重绘图，现共四套原图。导入器预先生成 32 / 48 像素每格的原生图集，共 34 帧。室内渲染不再自动裁边或适配格框，浏览器记录实际 drawImage 调用，断言源矩形像素尺寸等于目标矩形；并在电脑和手机尺寸分别断言家具画布原像素尺寸等于 CSS 显示尺寸。工作台保留 2 × 2 碰撞占地，可见桌面按斜俯视透视缩短，补充桌腿和前沿。开场探索专项通过，图集状态切换和两间屋子的进出正常。详见 [最新素材与验证记录](NATIVE-INTERIOR-ART.md)。
+
+## 手机引灯控制复验
+
+手机方向键旁增加独立“引灯”按钮：未点亮时禁用，点亮后显示“照见回忆”，回忆中显示“返回现世”，并同步 aria-pressed 与右上角状态。点灯对话、NPC 帮助、任务目标、手记、机关线索和设置中的操作说明按屏幕布局显示，手机不再要求按 Q。
+
+`node tests/browser.cjs --mobile-controls-only` 从实际取灯、借钥匙、取火柴到点灯完成流程，使用真实触摸事件验证禁用状态、双向切换及自动存档；刷新后续玩再次触摸返回现世。检查了点灯提示与手记文本，并在 320 / 390 / 844 像素触屏视口确认两个操作按钮均至少 44 像素、位于屏幕内且无横向溢出。浏览器错误为 0。预览为 `preview-mobile-controls.png`。
+
+`--interior-preview` 同时复查电脑 Q 键与右上角按钮可双向切换，并保留电脑和手机的家具原像素检查。
+
+## 家具和小物尺度复验
+
+新素材在生成前分别规定占地、家具轮廓与人物尺度。修灯台、调糊台保留 2 × 2 占地；笔记桌和值班桌的书本缩至手持书册大小，杯碗、灯笼、油壶、铃铛和票据按同一参照重绘。晾灯架与纸料柜改成 2 × 1 低架，并重新导出完整碰撞及两套原生像素图集。所有地板连通，调查点可达，36 项规则检查通过。
+
+两处房间出口显示为连续木地板、门框和门槛，替代旧黑底贴图。浏览器检查门口中心多个采样像素，确认没有黑底条块；开场探索专项通过，包含取灯、点灯、送包裹、修灯、室内进出与状态切换。生成图、提示词及比例取舍见 [家具尺度记录](FURNITURE-SCALE.md)。

diff --git a/README.md b/README.md
@@ -40,7 +40,7 @@ npm start
 | 地图与快捷移动 | M |
 | 关闭窗口 / 设置 | Esc |
 
-手机和触屏设备支持点击移动及屏幕方向键。游戏提供三层递进提示，试错没有惩罚；引灯可无限次使用。
+手机支持点击移动、屏幕方向键和独立的“调查”“引灯”按钮。引灯点亮后，轻触“引灯”即可切换现世与回忆，按钮会显示“照见回忆”或“返回现世”；点亮前显示“未点亮”。手机的点灯对话、任务目标、手记及设置显示触屏操作提示。游戏提供三层递进提示，试错没有惩罚；引灯可无限次使用。
 
 主角具有四方向的真实行走帧，会交替迈步，停下后恢复站姿。连续按住多个方向时，优先响应最近按下的方向；转向会平顺接在当前一步之后。点击寻路途中可以用方向键接管移动。
 
@@ -85,6 +85,8 @@ npm start
 生成提示词、图集排列与资源清单见 [素材记录](docs/ART-PROMPTS.md)。素材均保存在仓库内，运行时不请求远程图片或字体。
 
 室内家具已全部换为格子版素材，旧柜架、行李、壁灯和墙钟另行重绘。家具原图在导入时一次生成电脑与手机的固定像素图集；游戏中按原尺寸复制，不再自动裁边、拉满占格或缩小后放大。2 × 2 工作台另行重绘为斜俯视角，保留前沿与桌腿。取灯、领取包裹和修灯时保持家具尺寸与位置稳定。见 [固定像素图集、导入方式及工作台提示词](docs/NATIVE-INTERIOR-ART.md)。
+
+家具占格、家具高度和台面小物分别设计：工作台保留正常体量，书本、杯碗、工具和灯笼按人物尺度重绘并留出空台面；晾灯架与纸料柜采用 2 × 1 低架。出口使用连续木地板与门槛，去除旧开门贴图的黑底。详见 [家具比例与新素材提示词](docs/FURNITURE-SCALE.md)。
 
 ## 文件
 

diff --git a/docs/NATIVE-INTERIOR-ART.md b/docs/NATIVE-INTERIOR-ART.md
@@ -1,5 +1,7 @@
 # 室内固定像素图集与工作台透视
 
+最新一轮已按人物尺度重绘书本、器具、柜台小物与低晾灯架，原生显示方式继续沿用本文。当前素材映射与尺寸取舍见 [家具比例记录](FURNITURE-SCALE.md)。
+
 2026-11-16。本记录取代先前“游戏中自动裁掉透明边界再适配格框”的室内家具显示方式。
 
 ## 修正内容
